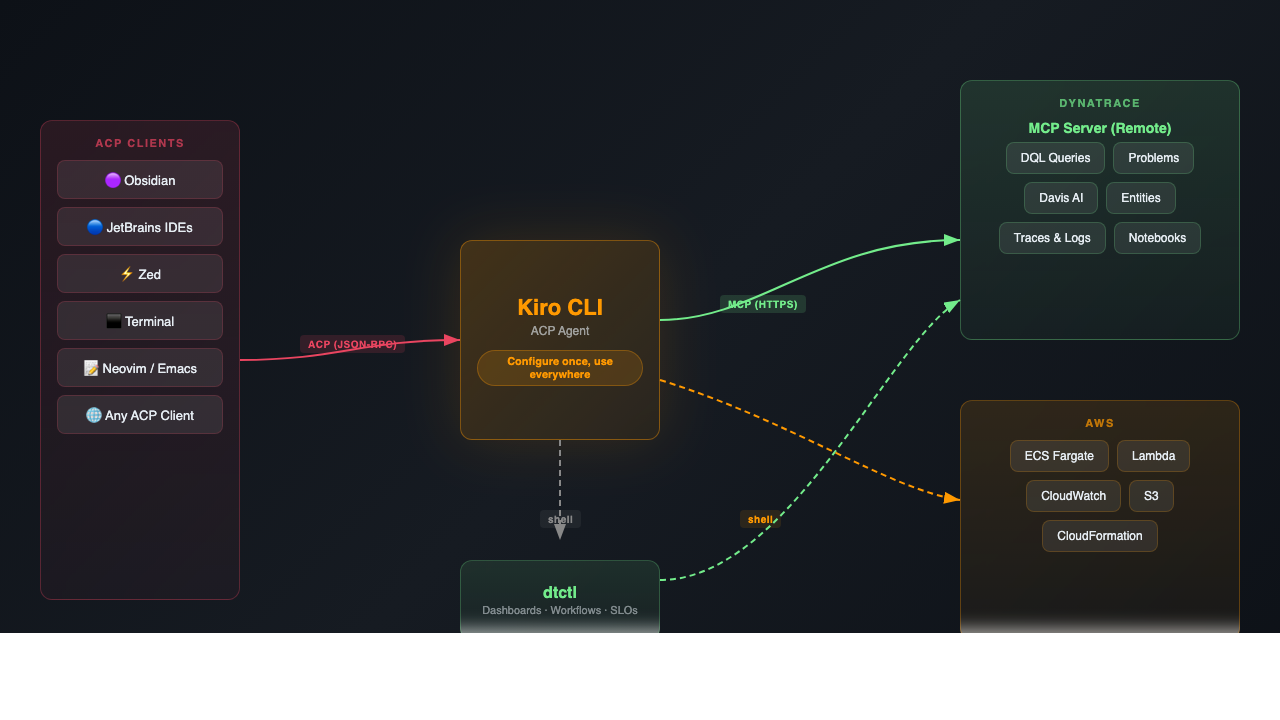
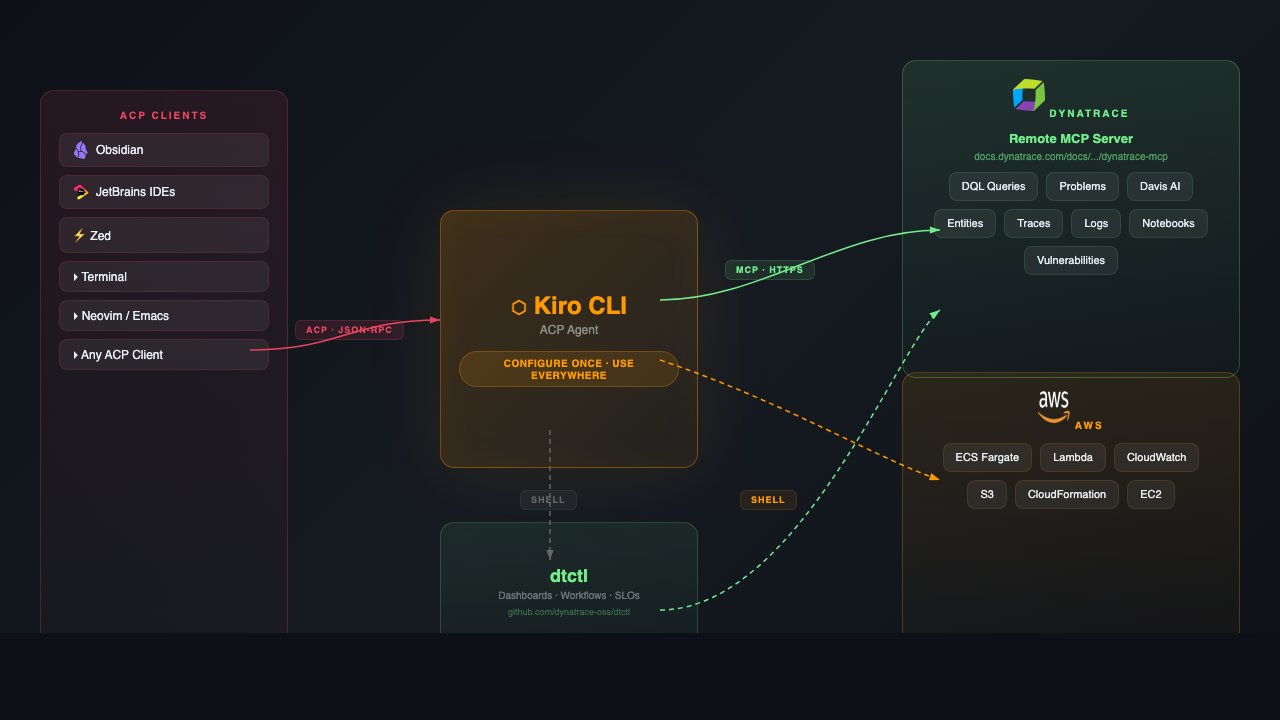
Blog restructure: skill explanation, kiro-cli tryout before Obsidian, fix heading
1. Fix architecture diagram white bar (re-rendered)
2. Explain dtctl skill file - how Kiro learns to use dtctl
3. Rename 'The key insight: ACP makes Kiro composable' to 'ACP makes Kiro composable'
4. Add kiro-cli terminal tryout section with example prompts before Obsidian
5. Obsidian section now says 'everything carries over automatically'
6. Updated repo URL to jasonmimick-aws

diff --git a/docs/blog/kiro-meets-dynatrace.md b/docs/blog/kiro-meets-dynatrace.md
@@ -21,7 +21,7 @@ My workflow looked like this: take messy meeting notes about an incident, switch
 
 What I wanted: ask questions about Dynatrace data without leaving my notes. And not just in Obsidian — in whatever tool I happen to be working in.
 
-## The key insight: ACP makes Kiro composable
+## ACP makes Kiro composable
 
 [Kiro CLI](https://kiro.dev/cli/) added support for the [Agent Client Protocol (ACP)](https://agentclientprotocol.com/) — an open standard that works like LSP, but for AI agents. Any ACP-compatible application can spawn `kiro-cli acp` and communicate with it over JSON-RPC.
 
@@ -31,9 +31,9 @@ This means Kiro isn't locked to the terminal. It's a composable agent that works
 - **Obsidian** (via the [Agent Client plugin](https://github.com/RAIT-09/obsidian-agent-client))
 - **Eclipse, Neovim, Emacs**, and any future ACP client
 
-The critical part: Kiro's MCP server configuration travels with it. Configure Dynatrace once in `.kiro/settings/mcp.json`, and every ACP client gets access to the same Dynatrace tools.
+The critical part: Kiro's MCP server configuration travels with it. Configure Dynatrace once, and every ACP client gets access to the same Dynatrace tools.
 
-## Connecting Kiro to Dynatrace <img src="../assets/dynatrace-logo.png" width="24" alt="Dynatrace" style="vertical-align:middle">
+## Setting up Kiro + Dynatrace <img src="../assets/dynatrace-logo.png" width="24" alt="Dynatrace" style="vertical-align:middle">
 
 Dynatrace provides a [remote MCP server](https://docs.dynatrace.com/docs/discover-dynatrace/platform/davis-ai/dynatrace-mcp) — hosted on their platform, no local dependencies. You connect to it with a URL and a platform token.
 
@@ -43,7 +43,7 @@ Go to [myaccount.dynatrace.com/platformTokens](https://myaccount.dynatrace.com/p
 
 ### 2. Configure the MCP server
 
-Create `.kiro/settings/mcp.json`:
+Create `~/.kiro/settings/mcp.json`:
 
 ```json
 {
@@ -58,19 +58,65 @@ Create `.kiro/settings/mcp.json`:
 }
 ```
 
-Set the environment variables and you're done:
+Set the environment variables:
 
 ```bash
 export DT_TENANT="abc12345"
 export DT_PLATFORM_TOKEN="dt0s16...."
-kiro-cli chat
 ```
 
 No Node.js, no local server process, no OAuth browser flow. Just a URL and a token.
 
-## The Obsidian setup
+### 3. Install dtctl and the agent skill
 
-This is where ACP pays off. I installed the [Agent Client plugin](https://github.com/RAIT-09/obsidian-agent-client) in Obsidian, pointed it at `kiro-cli acp`, and that was it. Kiro picks up the Dynatrace MCP config from `~/.kiro/settings/mcp.json` automatically — no tokens to duplicate, no environment variables to set in Obsidian.
+[dtctl](https://github.com/dynatrace-oss/dtctl) is a kubectl-inspired CLI for Dynatrace. It handles the write path — creating dashboards, workflows, and SLOs. But Kiro doesn't know dtctl exists by default. You teach it by adding an **agent skill** — a markdown file that describes dtctl's commands and when to use them.
+
+```bash
+brew install dynatrace-oss/tap/dtctl
+dtctl auth login --context my-env --environment "https://YOUR-ENV-ID.apps.dynatrace.com"
+```
+
+The starter repo includes the skill file at `.kiro/skills/dtctl/SKILL.md`. When Kiro sees a request to create or modify a Dynatrace resource, it reads this skill file and knows to use `dtctl apply -f` instead of telling you to open the Dynatrace web UI.
+
+### 4. Try it out in the terminal
+
+Start a chat and verify everything works:
+
+```bash
+kiro-cli chat
+```
+
+Try these prompts to exercise the full stack:
+
+```
+Show me open Dynatrace problems
+```
+
+```
+Query error logs from the last hour, limit 10
+```
+
+```
+What services is Dynatrace monitoring?
+```
+
+```
+Create a dashboard called "Test Dashboard" with one tile showing error rate for my top service
+```
+
+The first three use the MCP server (read path). The last one uses dtctl (write path) — Kiro generates a dashboard YAML and deploys it automatically. Here's a real dashboard Kiro created via dtctl:
+
+<img src="../assets/dtctl-dashboard.png" width="700" alt="Dashboard created by Kiro via dtctl">
+
+The split is clean:
+- **MCP server** → read path (query, investigate, analyze)
+- **dtctl** → write path (create, edit, deploy, version-control)
+
+## Now bring it to Obsidian
+
+This is where ACP pays off. Everything you just set up in Kiro CLI — the Dynatrace MCP server, dtctl, the agent skill — carries over automatically. No reconfiguration needed.
+
+I installed the [Agent Client plugin](https://github.com/RAIT-09/obsidian-agent-client) in Obsidian, pointed it at `kiro-cli acp`, and that was it. Kiro picks up the Dynatrace MCP config from `~/.kiro/settings/mcp.json` automatically — no tokens to duplicate, no environment variables to set in Obsidian.
 
 Now I can:
 
@@ -82,27 +128,7 @@ Now I can:
 
 - **Correlate with AWS.** "Are the ECS tasks healthy for that service?" — Kiro shells out to the AWS CLI and cross-references with Dynatrace data.
 
-## Adding dtctl for the write path <img src="../assets/dynatrace-logo.png" width="24" alt="Dynatrace" style="vertical-align:middle">
-
-The Dynatrace MCP server is excellent for querying — logs, problems, traces, entities, Davis AI. But when I need to create or modify Dynatrace resources (dashboards, workflows, SLOs), I use [dtctl](https://github.com/dynatrace-oss/dtctl).
-
-dtctl is a kubectl-inspired CLI for Dynatrace that Kiro can invoke via shell. It handles the full CRUD lifecycle:
-
-```
-You: Create a dashboard showing error rate and p95 latency for checkout-service
-```
-
-Kiro generates a dashboard YAML and deploys it with `dtctl apply -f`. Here's a real dashboard Kiro created via dtctl:
-
-<img src="../assets/dtctl-dashboard.png" width="700" alt="Dashboard created by Kiro via dtctl">
-
-```bash
-dtctl describe dashboard "Checkout Health" -o yaml > dashboards/checkout-health.yaml
-```
-
-The split is clean:
-- **MCP server** → read path (query, investigate, analyze)
-- **dtctl** → write path (create, edit, deploy, version-control)
+- **Create dashboards from Obsidian.** "Create a dashboard for checkout-service" — Kiro runs dtctl under the hood, same as it did in the terminal.
 
 ## The architecture
 
@@ -112,14 +138,14 @@ The beauty of this: I configured Dynatrace once. It works in my terminal, in Obs
 
 ## Try it yourself
 
-We've published a [starter repo](https://github.com/your-org/kiro-dynatrace-acp-starter) with:
+We've published a [starter repo](https://github.com/jasonmimick-aws/kiro-dynatrace-acp-starter) with:
 - Pre-configured MCP server pointing to Dynatrace's remote gateway
-- Steering rules that teach Kiro when to use MCP vs. dtctl
-- An Obsidian vault with sample notes and prompts
-- Five hands-on scenarios from basic log queries to automated rollback workflows
+- An agent skill that teaches Kiro how to use dtctl
+- An Obsidian vault with sample notes, prompts, and the Agent Client plugin pre-installed
+- Six hands-on scenarios from basic log queries to automated rollback workflows
 
 ```bash
-git clone https://github.com/your-org/kiro-dynatrace-acp-starter.git
+git clone https://github.com/jasonmimick-aws/kiro-dynatrace-acp-starter.git
 cd kiro-dynatrace-acp-starter
 export DT_TENANT="your-env-id"
 export DT_PLATFORM_TOKEN="dt0s16...."
